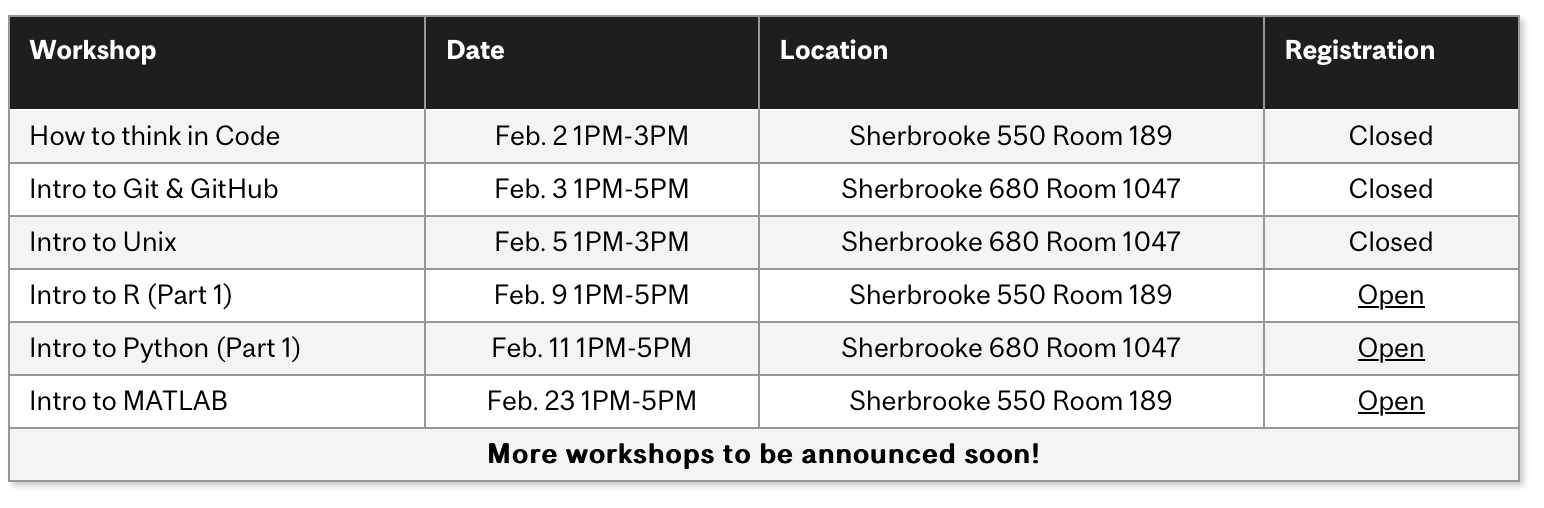
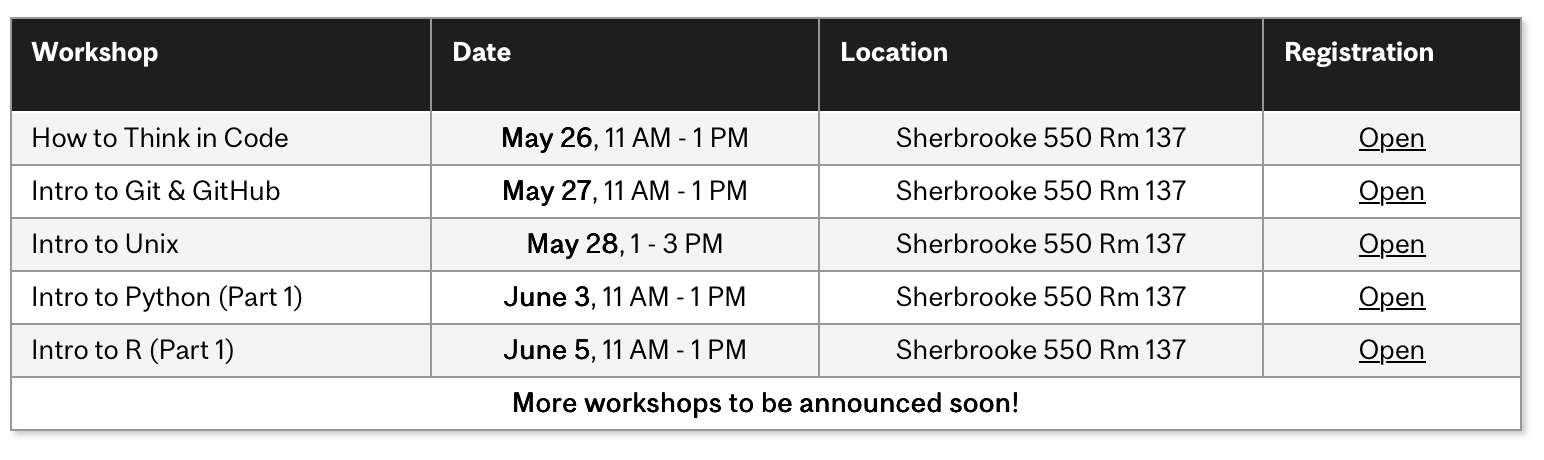
update 2026 summer date, update new R resources, update README links

Changed region(s): [[0.0, 0.213, 0.9948, 0.9739], [0.0, 0.0304, 0.9948, 0.1522]]

diff --git a/README.md b/README.md
@@ -6,7 +6,7 @@ This workshop is beginner-level introduction to programming in R. The course is 
 
 ## The Workshop Materials
 
-Throughout this course, we will primarily use our dedicated workshop website: 👉 [Introduction to R Workshop: https://martinahyang.github.io/IntroToR/](https://martinahyang.github.io/IntroToR/)
+Throughout this course, we will primarily use our dedicated workshop website: 👉 [Introduction to R Workshop: https://qls-micm.github.io/IntroToR/](https://qls-micm.github.io/IntroToR/)
 
 We will use this site to cover the foundational concepts of R, while performing **hands-on exercises** together in the **RStudio**. All necessary code and resources are provided on the site for your convenience.
 